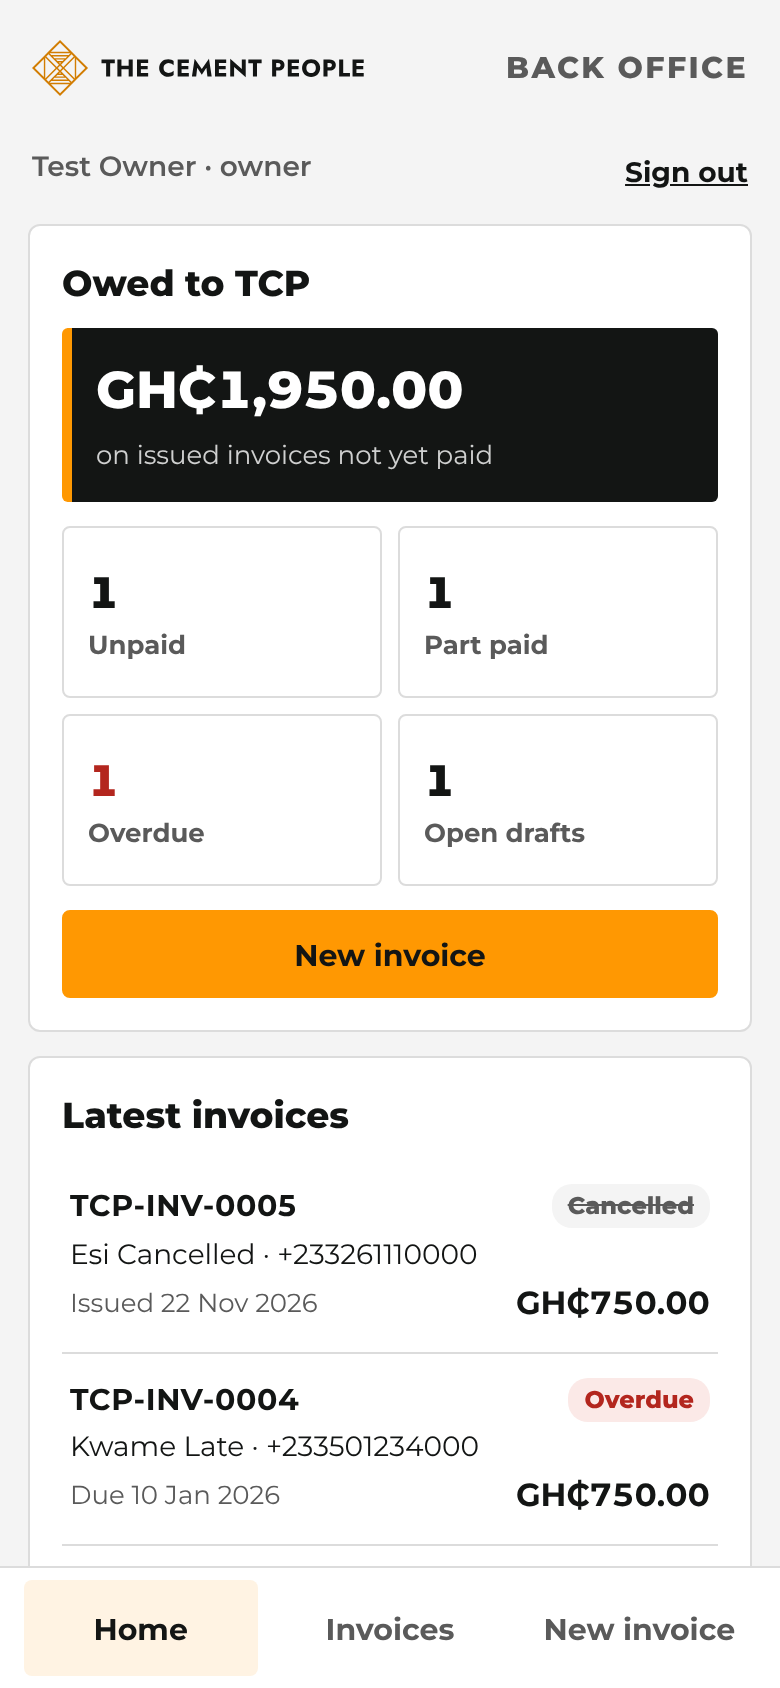
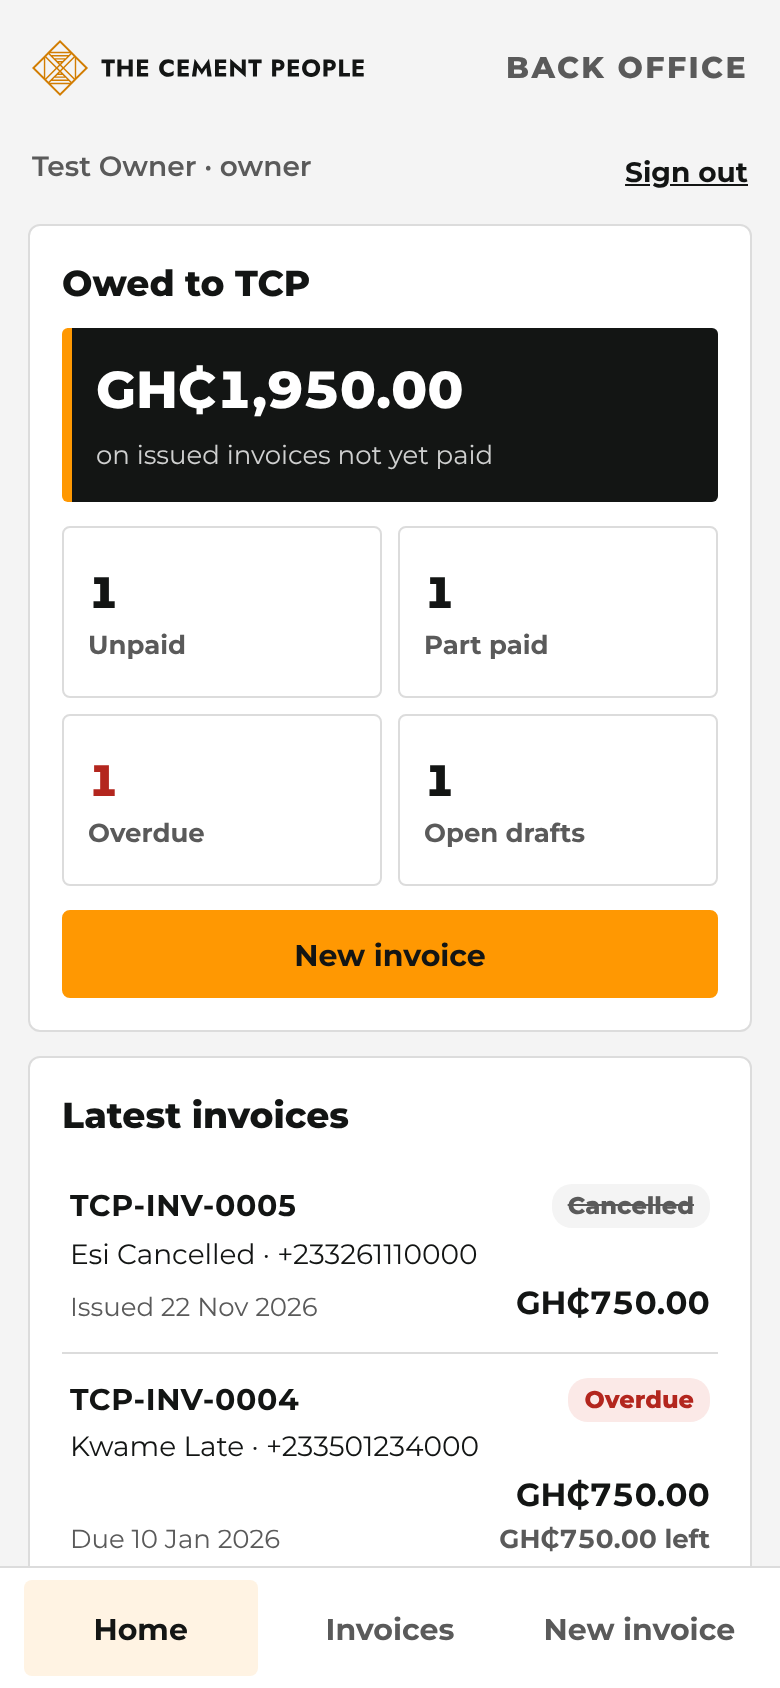
Back Office: balance on every issued invoice; 390 px test; order noted
From ChatGPT's review of PR #37:
- every issued invoice in the lists shows its total and, on its own line,
  what is left to pay (unpaid, part paid, paid, overdue); drafts and
  cancelled invoices show only the total
- the phone-width test runs at 360 and 390 px on every screen
- the list says "newest first, by date started": ordered by created_at then
  id, not the issue date (accepted for v1); noted in the code and the spec

Test B17 for the balances; screenshots updated.

Claude-Session: https://claude.ai/code/session_01FicDKV6V5AC4fzD2zwii7Y

diff --git a/web/public/scripts/back-office.js b/web/public/scripts/back-office.js
@@ -774,11 +774,13 @@ function shortDate(iso){if(!iso)return"";const[y,m,d]=String(iso).slice(0,10).sp
   return new Date(y,m-1,d).toLocaleDateString("en-GB",{day:"numeric",month:"short",year:"numeric"});}
 function rowHTML(r){
   const draft=r.status==="draft",when=draft?"Started "+shortDate(r.created_at):r.status==="overdue"?"Due "+shortDate(r.due_date):r.issued_at?"Issued "+shortDate(r.issued_at):"";
-  const owes=r.state==="issued"&&r.status!=="paid"&&+r.balance!==+r.total;
+  // Every issued invoice shows its total and what is left to pay (spec
+  // section 4); a draft or a cancelled invoice owes nothing.
+  const owes=r.state==="issued";
   return`<a class="dk-inv" href="#/invoice/${r.id}" data-id="${r.id}">
     <span class="dk-inv-top"><b>${draft?"Draft":esc(r.invoice_no||"")}</b><i class="dk-badge s-${esc(r.status)}">${esc(STATUS[r.status]||r.status)}</i></span>
     <span class="dk-inv-who">${esc(r.billed_to_name||"(no name)")}${r.billed_to_phone?" · "+esc(r.billed_to_phone):""}</span>
-    <span class="dk-inv-bot"><small>${esc(when)}</small><b>${money(toP(r.total))}${owes?`<small> · ${money(toP(r.balance))} left</small>`:""}</b></span>
+    <span class="dk-inv-bot"><small>${esc(when)}</small><b>${money(toP(r.total))}${owes?`<small class="dk-left">${money(toP(r.balance))} left</small>`:""}</b></span>
   </a>`;}
 
 // Home: the figures are the database's own (back_office_home); nothing is
@@ -835,7 +837,11 @@ async function loadMore(){
     if(!res.rows.length&&!LIST.rows.length)await stillStaff();
     LIST.rows=LIST.rows.concat(res.rows);LIST.count=res.count;
     $("#rows").innerHTML=LIST.rows.length?LIST.rows.map(rowHTML).join(""):`<p class="dk-help">${LIST.q||LIST.status!=="all"?"No invoices match.":"No invoices yet."}</p>`;
-    $("#listInfo").textContent=LIST.status==="owed"?`Owed to TCP: ${LIST.count} ${LIST.count===1?"invoice":"invoices"}`:LIST.count?`${LIST.count} ${LIST.count===1?"invoice":"invoices"}`:"";
+    // The order is by the date an invoice was started (then its id), not
+    // the date it was issued: predictable, and paging never skips or repeats
+    // one (accepted for v1 by ChatGPT and Daniel, 23 Nov 2026).
+    const n=`${LIST.count} ${LIST.count===1?"invoice":"invoices"}`;
+    $("#listInfo").textContent=LIST.count?(LIST.status==="owed"?"Owed to TCP: ":"")+n+" · newest first, by date started":"";
     show("#moreBtn",LIST.rows.length<LIST.count);
   }catch(err){if(my===LIST.seq)readFailed(err,"#listMsg");}
   finally{busy(btn,false);}

diff --git a/web/src/styles/desk.css b/web/src/styles/desk.css
@@ -117,7 +117,10 @@ a.dk-btn{text-decoration:none}
 .dk-inv-top b{font-size:15px;letter-spacing:.02em}
 .dk-inv-who{font-size:14px;color:var(--ink)}
 .dk-inv-bot small{color:var(--mute);font-size:13px}
-.dk-inv-bot b{font-variant-numeric:tabular-nums;text-align:right}
+.dk-inv-bot{align-items:flex-end}
+.dk-inv-bot small{white-space:nowrap}
+.dk-inv-bot b{font-variant-numeric:tabular-nums;text-align:right;white-space:nowrap}
+.dk-left{display:block;font-weight:700;color:var(--mute)}
 .dk-badge{font-style:normal;font-size:12px;font-weight:800;padding:2px 8px;border-radius:10px;background:var(--bg);color:var(--mute);white-space:nowrap}
 .dk-badge.s-overdue{background:#fbe9e7;color:#b3261e}
 .dk-badge.s-paid{background:#e6f4ea;color:#1e6b34}

diff --git a/tests/test_back_office.py b/tests/test_back_office.py
@@ -43,7 +43,10 @@ API server could not be installed in the build environment.
 TCP Back Office v1.1 (spec section 10):
   B01  Home figures match the database; each figure opens its list
   B02  Home agrees with the list: every count, and "owed" = the balances
-  B03  list order (newest, then id), filters, paging without skips or repeats
+  B03  list order (newest started, then id), filters, paging without skips
+       or repeats
+  B17  every issued invoice shows its total and what is left; drafts and
+       cancelled show none
   B04  phone search: four formats and a partial number find the same
        invoice; "233" is only removed when it is the country code
   B05  several matches are all listed; nothing is opened or chosen
@@ -59,7 +62,7 @@ TCP Back Office v1.1 (spec section 10):
   B14  WhatsApp: the message is copied; a blocked clipboard shows Copy
   B15  /invoice-desk/ forwards with the query and the whole fragment kept;
        an old sign-in link and an expired link still work
-  B16  every Back Office screen fits a 360 px phone
+  B16  every Back Office screen fits a 360 px and a 390 px phone
 """
 import base64
 import io
@@ -706,13 +709,10 @@ def test_b02_home_agrees_with_the_list(browser):
     owed = page.text_content("#hOwed")
     for status, n in home.items():
         assert _list_count(page, status) == n, status
-    # "Owed" = the balances on the rows the list shows under Owed (a row
-    # shows its total, and "… left" when part of it is paid).
+    # "Owed" = the balances ("… left") on the rows the list shows under Owed.
     _list_count(page, "owed")
-    def left(t):
-        part = t.split("·")[-1] if "left" in t else t
-        return float(part.replace("left", "").replace("GH₵", "").replace(",", "").strip())
-    total = sum(left(t) for t in page.locator("#rows .dk-inv-bot b").all_text_contents())
+    total = sum(float(t.replace("left", "").replace("GH₵", "").replace(",", "").strip())
+                for t in page.locator("#rows .dk-left").all_text_contents())
     assert f"GH₵{total:,.2f}" == owed
     assert not errors
 
@@ -966,12 +966,31 @@ def test_b15_old_address_forwards_everything(browser):
     assert p2.locator('noscript').count() == 1
 
 
+@pytest.mark.parametrize("width", [360, 390])
 @pytest.mark.parametrize("route", ["#/", "#/invoices", "#/invoice/2", "#/invoice/1"])
-def test_b16_fits_a_phone(browser, route):
-    page, errors = _bo(browser, width=360, seed=MIX, route=route)
+def test_b16_fits_a_phone(browser, route, width):
+    page, errors = _bo(browser, width=width, seed=MIX, route=route)
     page.wait_for_timeout(400)
-    assert page.evaluate("document.documentElement.scrollWidth") <= 360
+    assert page.evaluate("document.documentElement.scrollWidth") <= width
     for a in page.locator("#tabs a").all():
         if a.is_visible():
             assert a.bounding_box()["height"] >= 44
+    assert not errors
+
+
+
+def test_b17_issued_invoices_show_what_is_left(browser):
+    page, errors = _bo(browser, seed=MIX, route="#/invoices")
+    page.wait_for_selector("#rows .dk-inv")
+    def shown(i):
+        row = page.locator(f'#rows .dk-inv[data-id="{i}"]')
+        left = row.locator(".dk-left")
+        return (row.locator(".dk-inv-bot b").evaluate("b => b.firstChild.textContent"),
+                left.text_content() if left.count() else None)
+    assert shown(2) == ("GH₵750.00", "GH₵750.00 left"), "unpaid: total and balance"
+    assert shown(3) == ("GH₵750.00", "GH₵450.00 left"), "part paid"
+    assert shown(4) == ("GH₵750.00", "GH₵0.00 left"), "paid"
+    assert shown(5) == ("GH₵750.00", "GH₵750.00 left"), "overdue"
+    assert shown(1) == ("GH₵750.00", None) and shown(6) == ("GH₵750.00", None), "draft and cancelled owe nothing"
+    assert "newest first, by date started" in page.text_content("#listInfo")
     assert not errors
